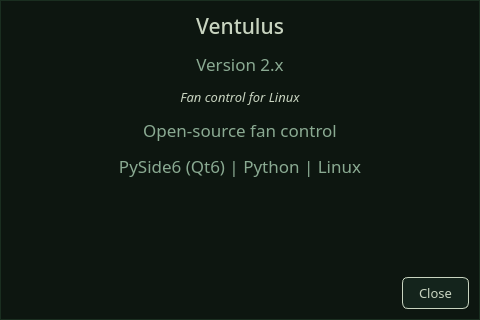
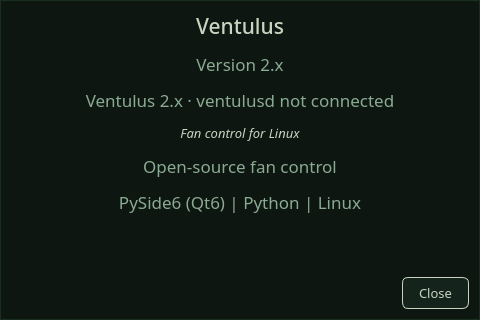
release: ventulus 5.2.0
Batch since v5.1.0: two minor commits (Debian/Ubuntu/Fedora and tarball
packages; the opt-in signed update check), four patch (driver guidance
per distribution, distro test fixes, fish-safe and per-distribution
install docs) and one none (artifact-action pins, Dependabot #1).
Version moves to 5.2.0 in pyproject, PKGBUILD and the README release
line; [Unreleased] becomes [5.2.0]. The ventulusd floor stays >= 3.0.0.
Screenshots recaptured: 09_about_dialog gains the versions line; the
01_dashboard diff was plot-area noise only and is not committed.

diff --git a/README.md b/README.md
@@ -2,7 +2,7 @@
 
 *Formerly Control-OFC (`control-ofc-gui`).*
 
-**Latest release:** v5.1.0 — 2026-10-15. Pairs with `ventulusd` ≥ v3.0.0; version numbers carry on from Control-OFC. Individual features gate on newer daemons and say so in the app when one is missing.
+**Latest release:** v5.2.0 — 2026-10-16. Pairs with `ventulusd` ≥ v3.0.0; version numbers carry on from Control-OFC. Individual features gate on newer daemons and say so in the app when one is missing.
 
 Ventulus is a fan control app for Linux desktops. You decide how each group of fans
 should respond to temperature; a background service, [`ventulusd`](https://github.com/Plan-B-Development/ventulusd),

diff --git a/CHANGELOG.md b/CHANGELOG.md
@@ -5,6 +5,12 @@ rename. Version numbers carry on from Control-OFC.
 
 ## [Unreleased]
 
+## [5.2.0] — 2026-10-16
+
+Pairs with `ventulusd` >= v3.0.0, which the package requires; ventulusd 5.2.0 is the current daemon release.
+Packages for Debian, Ubuntu and Fedora and a tarball, an opt-in signed update check, and driver guidance for every
+supported distribution.
+
 ### Added
 
 - **Packages for Debian 13, Ubuntu 26.04 and Fedora 44, and a tarball.** Each Release now carries
